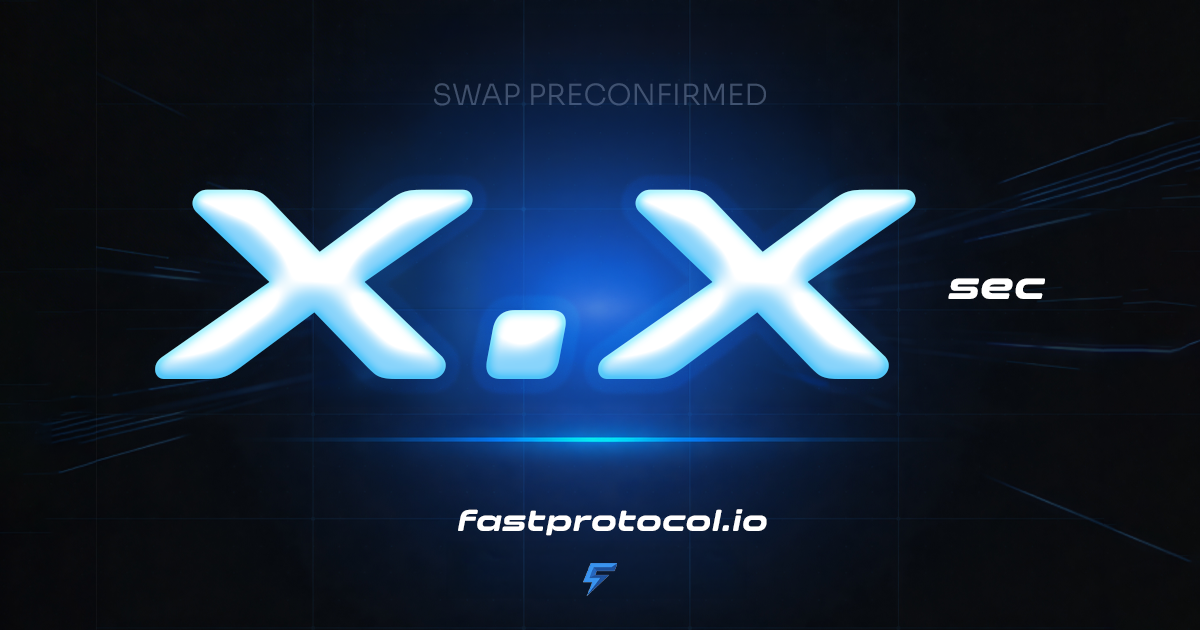
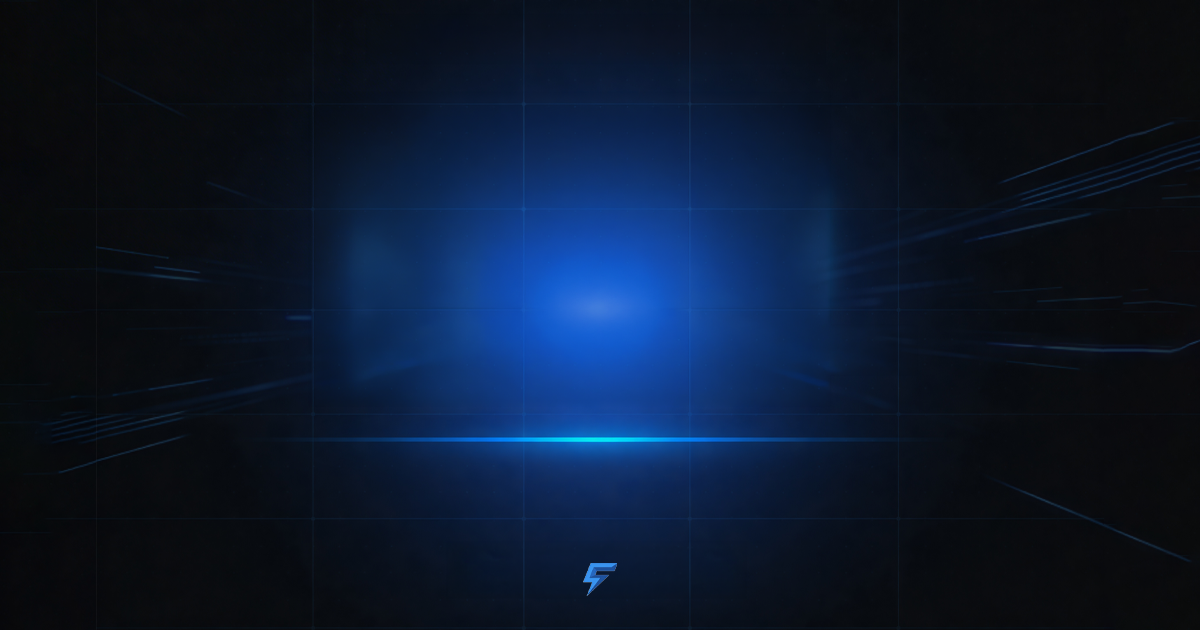
fix: use clean background without placeholder text, improve text visibility
Replaced background with clean version (blue glow, speed lines, Fast
logo only — no text). All text now rendered dynamically:
- SWAP PRECONFIRMED: brighter (0.7 opacity), larger, wider letter spacing
- Speed number: 200px Clonoid with stronger blue glow text-shadow
- fastprotocol.io: italic Sora below
- Content positioned above the blue glow line with bottom padding

diff --git a/src/app/api/og/preconfirm/route.tsx b/src/app/api/og/preconfirm/route.tsx
@@ -1,13 +1,11 @@
 import { ImageResponse } from "next/og"
 import { NextRequest } from "next/server"
-import { readFile } from "node:fs/promises"
-import { join } from "node:path"
 
 export const runtime = "edge"
 
 /**
  * Dynamic OG image for preconfirmation share cards.
- * Uses designer-provided background + custom fonts (Clonoid Bold Italic, Sora).
+ * Clean background (blue glow, speed lines, Fast logo) with dynamic text overlay.
  * Usage: /api/og/preconfirm?time=0.4
  */
 export async function GET(request: NextRequest) {
@@ -15,13 +13,15 @@ export async function GET(request: NextRequest) {
   const raw = parseFloat(searchParams.get("time") || "0.4")
   const time = !isNaN(raw) && raw >= 0 && raw <= 999 ? raw.toFixed(1) : "0.4"
 
-  // Load custom fonts
   const [clonoidFont, soraFont] = await Promise.all([
-    fetch(new URL("./fonts/clonoid-bold-italic.ttf", import.meta.url)).then((r) => r.arrayBuffer()),
-    fetch(new URL("./fonts/sora-semibold.ttf", import.meta.url)).then((r) => r.arrayBuffer()),
+    fetch(new URL("./fonts/clonoid-bold-italic.ttf", import.meta.url)).then(
+      (r) => r.arrayBuffer()
+    ),
+    fetch(new URL("./fonts/sora-semibold.ttf", import.meta.url)).then((r) =>
+      r.arrayBuffer()
+    ),
   ])
 
-  // Background image — designer-provided template with blue glow + speed lines
   const bgUrl = `${request.nextUrl.origin}/assets/og-preconfirm-bg.png`
 
   return new ImageResponse(
@@ -30,14 +30,11 @@ export async function GET(request: NextRequest) {
         width: "100%",
         height: "100%",
         display: "flex",
-        flexDirection: "column",
-        justifyContent: "center",
-        alignItems: "center",
         position: "relative",
         backgroundColor: "#040810",
       }}
     >
-      {/* Background image */}
+      {/* Background */}
       <img
         src={bgUrl}
         width={1200}
@@ -52,7 +49,7 @@ export async function GET(request: NextRequest) {
         }}
       />
 
-      {/* Content overlay */}
+      {/* Content — positioned above the blue glow line */}
       <div
         style={{
           display: "flex",
@@ -61,18 +58,21 @@ export async function GET(request: NextRequest) {
           justifyContent: "center",
           position: "relative",
           zIndex: 1,
+          width: "100%",
+          height: "100%",
+          paddingBottom: "80px",
         }}
       >
         {/* SWAP PRECONFIRMED */}
         <div
           style={{
             fontFamily: "Sora",
-            fontSize: "24px",
+            fontSize: "26px",
             fontWeight: 600,
-            color: "rgba(160, 200, 255, 0.5)",
-            letterSpacing: "0.25em",
+            color: "rgba(180, 215, 255, 0.7)",
+            letterSpacing: "0.3em",
             textTransform: "uppercase" as const,
-            marginBottom: "10px",
+            marginBottom: "16px",
           }}
         >
           Swap Preconfirmed
@@ -89,11 +89,12 @@ export async function GET(request: NextRequest) {
           <div
             style={{
               fontFamily: "Clonoid",
-              fontSize: "180px",
+              fontSize: "200px",
               color: "#fff",
               lineHeight: 1,
               letterSpacing: "-0.02em",
-              textShadow: "0 0 60px rgba(100, 180, 255, 0.4), 0 0 120px rgba(100, 180, 255, 0.2)",
+              textShadow:
+                "0 0 40px rgba(100, 180, 255, 0.5), 0 0 80px rgba(100, 180, 255, 0.3), 0 0 160px rgba(60, 140, 255, 0.15)",
             }}
           >
             {time}
@@ -101,14 +102,28 @@ export async function GET(request: NextRequest) {
           <div
             style={{
               fontFamily: "Sora",
-              fontSize: "48px",
+              fontSize: "52px",
               fontWeight: 600,
-              color: "rgba(160, 200, 255, 0.5)",
+              color: "rgba(180, 215, 255, 0.55)",
               lineHeight: 1,
             }}
           >
             sec
           </div>
+        </div>
+
+        {/* fastprotocol.io */}
+        <div
+          style={{
+            fontFamily: "Sora",
+            fontSize: "22px",
+            fontWeight: 600,
+            color: "rgba(180, 215, 255, 0.4)",
+            marginTop: "32px",
+            fontStyle: "italic",
+          }}
+        >
+          fastprotocol.io
         </div>
       </div>
     </div>,
